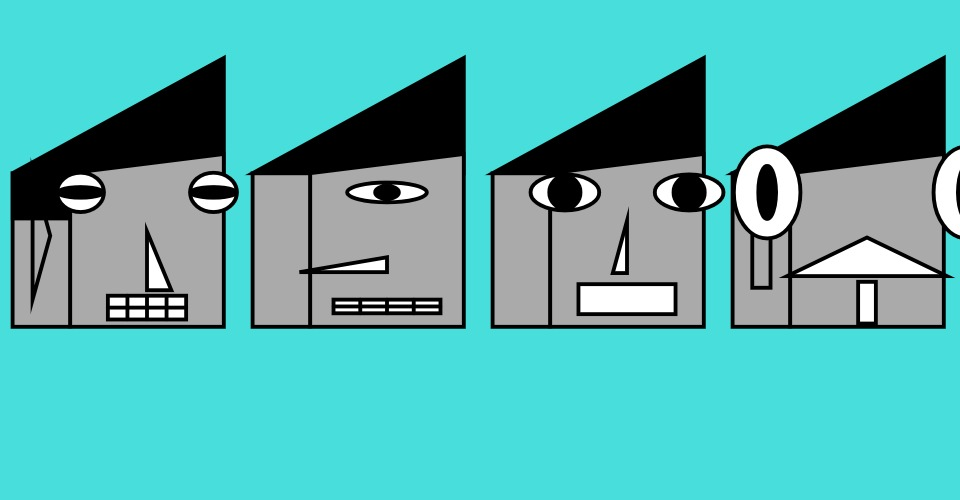
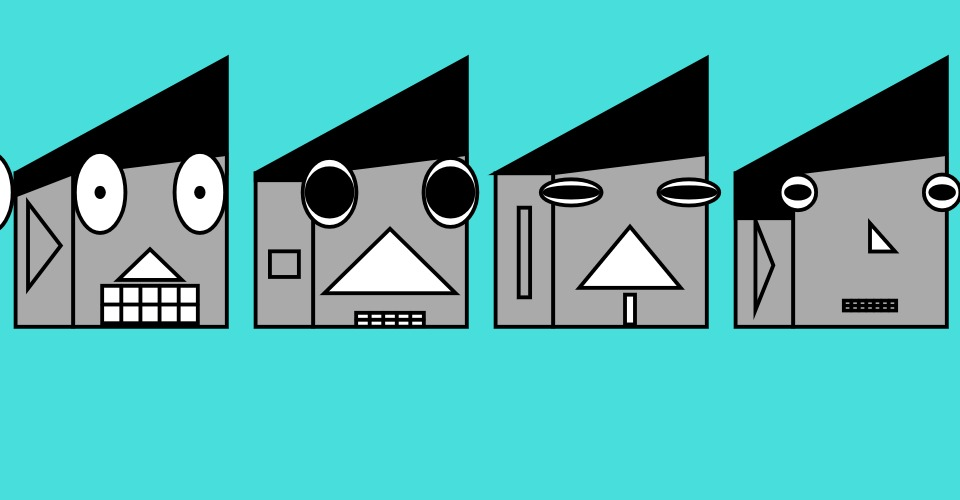
changed nose width parameters

diff --git a/face_code.js b/face_code.js
@@ -37,7 +37,7 @@ const earShapes=["circle","triangle","square","none"];
 const minInnerEarWidth=0.1;
 const maxInnerEarWidth=0.6;
 const minInnerEarHeight=.1;
-const maxInnerEarHeight=0.9;
+const maxInnerEarHeight=.6;
 //mouth
 const minMouthHeight=.5;
 const minMouthWidth=.5;
@@ -76,22 +76,22 @@ class Face{
     if(this.sideBurn!="none"){
       this.sideBurnHeight=this.random(minSideBurnHeight,maxSideBurnHeight);
     }
-    this.noseWidth=this.random(minNoseWidth,maxNoseWidth);
+    this.earShape=earShapes[Math.floor(Math.random() * earShapes.length)];
     this.noseHeight=this.random(minNoseHeight,maxNoseHeight);
     this.noseDirection=noseDirections[Math.floor(Math.random() * noseDirections.length)];
     this.noseY=this.random(minNoseY,maxNoseY);
-   
+    this.noseWidth=this.random(minNoseWidth,this.getMaxNoseWidth());
     this.eyeWidth=this.random(minEyeWidth,maxEyeWidth);
     this.eyeX=this.random(minEyeX,this.getMaxEyeX());
     this.eyeHeight=this.random(minEyeHeight,maxEyeHeight);
     this.innerEyeWidth=this.random(minInnerEyeWidth,maxInnerEyeWidth);
     this.innerEyeHeight=this.random(minInnerEyeHeight,maxInnerEyeHeight);
     
-    this.earShape=earShapes[Math.floor(Math.random() * earShapes.length)];
+    
    
     this.earY=this.random(minEarY,maxEarY);
     this.innerEarWidth=this.earWidth*this.random(minInnerEarWidth,maxInnerEarWidth);
-    this.innerEarHeight=this.headHeight*this.random(minInnerEarHeight,maxInnerEarHeight);
+    this.innerEarHeight=this.headHeight*this.random(minInnerEarHeight,this.getMaxInnerEarHeight());
     this.mouthHeight=this.random(minMouthHeight,this.getMaxMouthHeight());
     this.mouthWidth=this.random(minMouthWidth,maxMouthWidth);
     this.hasTeeth=Math.random()<0.5;
@@ -107,7 +107,7 @@ class Face{
     return Math.random()*(max - min) + min;
   }
   getMaxEyeX(){
-    return this.headWidth/2+this.eyeWidth/2;
+    return this.headWidth/2+this.eyeWidth*.25;
   }
   getMinMouthY(){
     return this.noseY+this.noseHeight/2+this.mouthHeight/2; 
@@ -118,11 +118,20 @@ class Face{
   getMaxMouthHeight(){
     return this.headHeight/2-(this.noseY+this.noseHeight/2);
   }
+  getMaxNoseWidth(){
+    if (this.noseDirection=="right"||this.earShape=="none"){
+      return maxNoseWidth;
+    }
+    return this.headWidth/2-.3;
+  }
+  getMaxInnerEarHeight(){
+    return maxInnerEarHeight;
+    //(maxInnerEarHeight-this.sideBurnHeight)*.9;
+  }
   
   drawSkin(){
     rectMode(CENTER);
     fill(this.skinColour);
-    //noStroke();
     quad(-this.headWidth/2, -this.headHeight/2, this.headWidth/2, -this.foreHeadHeight,
     this.headWidth/2, this.headHeight/2, -this.headWidth/2, this.headHeight/2);
     
@@ -139,9 +148,7 @@ class Face{
     
   }
   drawEar(){
-    if (this.noseDirection=="left"){
-      this.earShape="none";
-    }
+   
     fill(this.skinColour);
     rect(-this.headWidth/2-this.earWidth,-this.headHeight/2,this.earWidth,this.headHeight);
     fill(this.innerEarCol);
@@ -165,7 +172,6 @@ class Face{
     rect(0,this.mouthY,this.mouthWidth,this.mouthHeight);
    //draw teeth if face has teeth and the teeth won't make the mouth completely filled with the stroke
     if(this.hasTeeth&&!this.mouthWidth/this.numberOfteeth+myStrokeWeight*1.1<this.mouthWidth/this.numberOfteeth*2-myStrokeWeight*1.1){
-      //console.log(this.mouthWidth/this.numberOfteeth+myStrokeWeight/2<this.mouthWidth/this.numberOfteeth*2-myStrokeWeight/2);
       line(-this.mouthWidth/2,this.mouthY,this.mouthWidth/2,this.mouthY);
       for(let i=1;i<this.numberOfteeth;i++){
         line(-this.mouthWidth/2+this.mouthWidth/this.numberOfteeth*i,this.mouthY-this.mouthHeight/2,-this.mouthWidth/2+this.mouthWidth/this.numberOfteeth*i,this.mouthY+this.mouthHeight/2);
@@ -217,7 +223,6 @@ class Face{
       }
     }
      //resize the eyes if both the width and heigh are so small they just look black
-    
      if(this.eyeWidth<eyeResizeSize&&this.eyeHeight<eyeResizeSize){
       if(this.eyeWidth<this.eyeHeight){
         this.eyeWidth=eyeResizeSize;
@@ -236,7 +241,6 @@ class Face{
     }
     
     fill(this.eyeCentreCol);
-    
     ellipse(-this.eyeX, this.eyeY, this.eyeWidth*this.innerEyeWidth, this.eyeHeight*this.innerEyeHeight);
     strokeWeight(myStrokeWeight);
     //draw right eye if not a cyclops
@@ -269,6 +273,7 @@ class Face{
     else{
       triangle(this.noseX,this.noseY-this.noseHeight/2,this.noseX+this.noseWidth,this.noseY+this.noseHeight/2-noseHeightReduction,this.noseX-this.noseWidth,this.noseY+this.noseHeight/2-noseHeightReduction);
     }
+   
   }
 
  

diff --git a/editor.js b/editor.js
@@ -119,10 +119,11 @@ function draw () {
    // draw face using values mapped from 3 sliders
    face.sideBurn=sideBurns[Math.floor(map(s1, 0, 100, 0,sideBurns.length))];
    face.sideBurnHeight=map(s2, 0, 100, minSideBurnHeight, maxSideBurnHeight);
-   face.noseWidth=map(s3, 0, 100, minNoseWidth, maxNoseWidth);
+   
    face.noseHeight=map(s4, 0, 100, minNoseHeight, maxNoseHeight);
    face.noseDirection=noseDirections[Math.floor(map(s5, 0, 100, 0,noseDirections.length))];
    face.noseY=map(s6, 0, 100, minNoseY, maxNoseY);
+   face.noseWidth=map(s3, 0, 100, minNoseWidth, face.getMaxNoseWidth());
    
    face.eyeWidth=map(s8, 0, 100, minEyeWidth, maxEyeWidth);
    face.eyeHeight=map(s9, 0, 100, minEyeHeight, maxEyeHeight);
@@ -132,7 +133,7 @@ function draw () {
    face.earShape=earShapes[Math.floor(map(s12, 0, 100, 0,earShapes.length))];
    face.earY=map(s13, 0, 100, minEarY, maxEarY);
    face.innerEarWidth=face.earWidth*map(s14, 0, 100, minInnerEarWidth, maxInnerEarWidth);
-   face.innerEarHeight=face.headHeight*map(s15, 0, 100, minInnerEarHeight, maxInnerEarHeight);
+   face.innerEarHeight=face.headHeight*map(s15, 0, 100, minInnerEarHeight, face.getMaxInnerEarHeight());
    face.hasTeeth=0.5<map(s16, 0, 100, 0,1);
    face.mouthWidth=map(s17, 0, 100, minMouthWidth,maxMouthWidth);
    face.mouthHeight=map(s18,0,100,minMouthHeight,face.getMaxMouthHeight());

diff --git a/arrangement.js b/arrangement.js
@@ -67,7 +67,7 @@ function draw () {
   let face_scale = face_size / 10;
   for(let i=0; i<faceList.length; i++) {
     push();
-    //translate((i)*width/4+xOffset,height/2);
+  
     translate(faceList[i].faceX,height/2);
     scale(face_scale);
     faceList[i].drawFace();

diff --git a/README.md b/README.md
@@ -1,1 +1,1 @@
-I have fixed the last of the issues around the pupil size. I have also made it so if the nose is left facing it doesn't draw the inner ear. I did this because not only do they overlap some of the time but the nose and the ear in this configuation almost contradict the 3dness of the face in that it makes the face feel like the nose makes it feel like the face is side on looking at the left hand side of the face and the ear implies then angle is at 45 degrees from a front on view in the oposte direction. I think that the nose looking left looks good without the inner ear although it still contradicts the 3d effect of the face that the ear really helps sell. 
+I have decided that the nose looks much better with an ear when it is less wide and doesn't overlap onto the ear. As a result I have made it so the nose cannot overlap the ear when the ear is drawn by decreasing the noses width. I have left the nose able to stick off the side of the face to the right. The nose does look good if it sticks off the face to the right so I have left it the same size for that. I also think with this reduced size that the ear looks empty so I have made it so that the nose can still be wide if it isn't drawn. I have also made it so the ear can draw when the nose is facing left again as this doesn't look as bad when the nose is smaller. 
